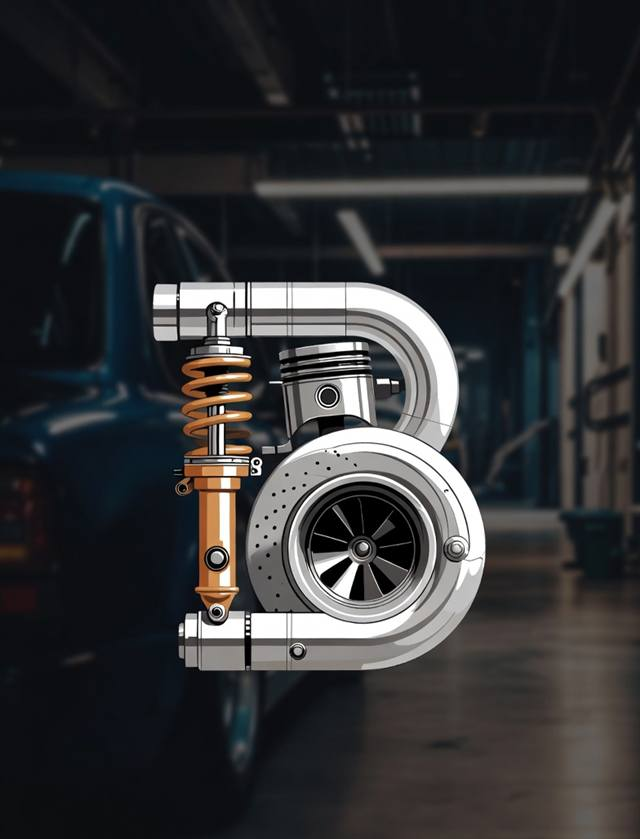
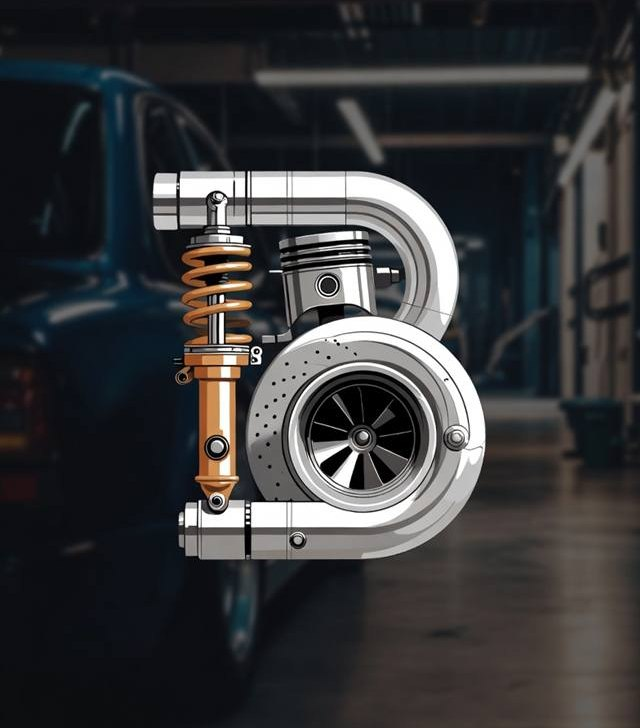
fix(vault): centre the mechanical B vertically in the hero
Founder: the image hugs the bottom of its area and should be centred top to
bottom.

The cause was in the asset, not the CSS. In the 640x839 source the B spans
y=270..680 — 270px of headroom above it but only 159px below — so it sat at
56.6% of the image height and read low, with a band of empty ceiling above
and its lower bowl running into the fade.

object-position could not fix it: the box and the image are so close in
aspect ratio that cover leaves only ~22px of vertical slack, against the
~45px of correction needed, and the shortfall changes with every viewport
size. Trimming 111px off the top puts the B at exactly 50% of the asset, so
plain `object-position: center center` now holds it centred at every crop
ratio and in both layouts, with no per-breakpoint tuning.

Fade reduced from 62% to 46% of the hero (58% when the vault panel is open)
so the bottom of the B stays legible instead of dissolving.

Claude-Session: https://claude.ai/code/session_017YgxnuViSFo25Ee2DrXLxZ

diff --git a/index.html b/index.html
@@ -65,13 +65,17 @@ input::placeholder{color:var(--dim)}
   position:absolute;top:0;left:0;width:100%;height:58svh;overflow:hidden;
 }
 .heroWrap::after{
-  content:'';position:absolute;inset:auto 0 0 0;height:62%;
-  background:linear-gradient(180deg,rgba(13,13,13,0) 0%,rgba(13,13,13,.85) 55%,var(--black) 100%);
+  content:'';position:absolute;inset:auto 0 0 0;height:46%;
+  background:linear-gradient(180deg,rgba(13,13,13,0) 0%,rgba(13,13,13,.82) 58%,var(--black) 100%);
   transition:height .25s ease;
 }
-.stage.revealed .heroWrap::after{height:74%}
+.stage.revealed .heroWrap::after{height:58%}
 .hero{
-  width:100%;height:100%;object-fit:cover;object-position:center top;
+  /* The asset is cropped so the B sits at exactly 50% of its height, which
+     means plain centring keeps the subject centred at every crop ratio —
+     object-position alone could not do it, because cover leaves almost no
+     vertical slack when the box and the image are close in aspect. */
+  width:100%;height:100%;object-fit:cover;object-position:center center;
   user-select:none;-webkit-user-select:none;-webkit-touch-callout:none;
   -webkit-tap-highlight-color:transparent;display:block;
 }
